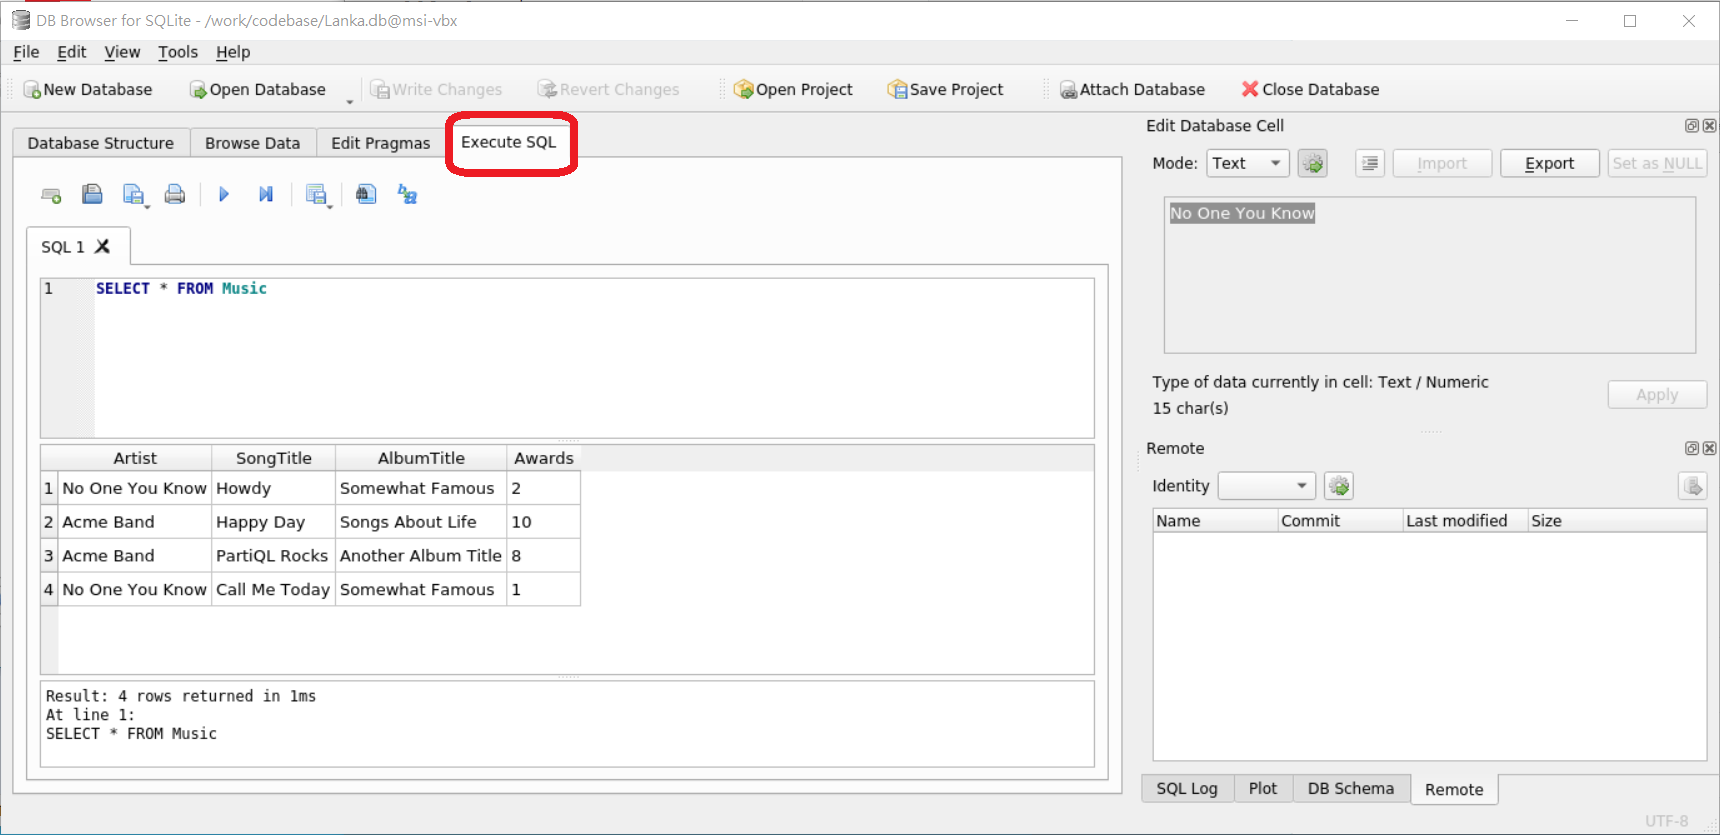
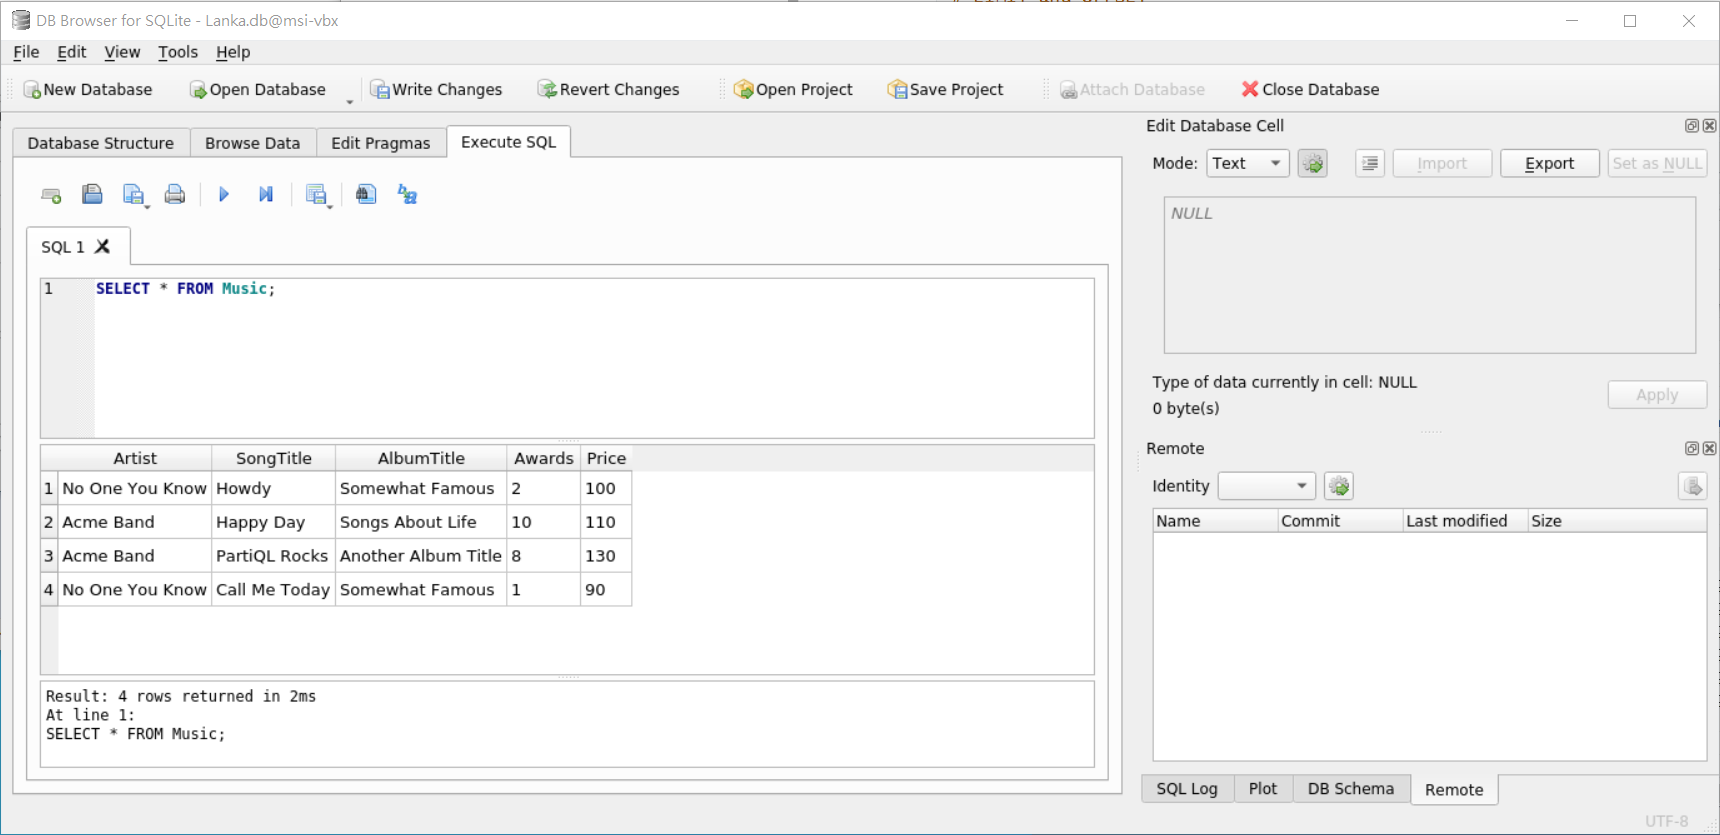
git add SQLite/Lanka.db

diff --git a/helper_SQLite.md b/helper_SQLite.md
@@ -70,7 +70,7 @@ sqlite> .header on
 sqlite> .mode column
 # 設定欄位寬度
 sqlite> .width 10 20 30 40
-sqlite> .timer on
+
 ```
 
 #### D. SQL command
@@ -172,43 +172,80 @@ $ sqlitebrowser
 
 ## 4.1. CREATE
 
-> CREATE TABLE "Music" (
-> 	"Artist"	TEXT NOT NULL,
-> 	"SongTitle"	TEXT NOT NULL,
-> 	"AlbumTitle"	TEXT NOT NULL,
-> 	"Awards"	TEXT NOT NULL,
-> 	PRIMARY KEY("Artist","SongTitle")
-> );
+```sql
+CREATE TABLE "Music" (
+	"Artist"	TEXT NOT NULL,
+	"SongTitle"	TEXT NOT NULL,
+	"AlbumTitle"	TEXT NOT NULL,
+	"Awards"	TEXT NOT NULL,
+	"Price"	INTEGER NOT NULL DEFAULT 0,
+	PRIMARY KEY("Artist","SongTitle")
+);
+```
 
 ## 4.2. SELECT
-
-> SELECT * FROM Music;
-
 ![SQLite30006](./images/SQLite30006.png)
+#### A. All
+
+```sql
+SELECT * FROM Music;
+
+# WHERE [] LIKE '%Some%'
+# WHERE [] LIKE '_omewha_%'
+SELECT * FROM Music WHERE AlbumTitle LIKE '%Some%';
+SELECT * FROM Music WHERE AlbumTitle LIKE '_omewha_%';
+
+# LIMIT and OFFSET
+SELECT * FROM Music LIMIT 3;
+
+# OFFSET 起始資料，0~N
+SELECT * FROM Music LIMIT 3 OFFSET 2;
+```
+
+#### B. ORDER BY ASC / DESC
+
+```sql
+SELECT * FROM Music ORDER BY Awards ASC;
+SELECT * FROM Music ORDER BY Awards DESC;
+```
+
+#### C. GROUP BY
+
+```sql
+# SUM/MAX/MIN
+SELECT Artist,SUM(Price) FROM Music GROUP BY Artist;
+
+SELECT Artist,MIN(Price) FROM Music GROUP BY Artist HAVING Price>=110;
+```
 
 ## 4.3. INSERT
 
-> INSERT INTO Music (Artist,SongTitle,AlbumTitle,Awards)
-> VALUES('Lanka', 'Lanka', 'Album123', '3');
-
 ![SQLite30007](./images/SQLite30007.png)
+```sql
+INSERT INTO Music (Artist,SongTitle,AlbumTitle,Awards,Price)
+VALUES('Lanka', 'Lanka', 'Album123', '3', 99);
+```
 
 ## 4.4. UPDATE
-
->UPDATE Music SET Awards='4';
-
 ![SQLite30009](./images/SQLite30009.png)
 
+```sql
+UPDATE Music SET Awards='4' WHERE Artist='Lanka' and SongTitle='Lanka';
+```
+
 ## 4.5. DELETE
-
-> DELETE FROM Music
-> WHERE Artist='Lanka' and SongTitle='Lanka';
-
 ![SQLite30008](./images/SQLite30008.png)
+
+```sql
+DELETE FROM Music
+WHERE Artist='Lanka' and SongTitle='Lanka';
+```
 
 ## 4.6. DROP
 
-> DROP TABLE Music
+```sql
+DROP TABLE Music;
+```
 
 # Appendix
 
